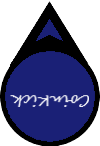
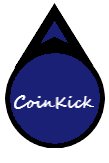
Forgot Password and UI Changes

diff --git a/lib/presentation/screens/profile_page.dart b/lib/presentation/screens/profile_page.dart
@@ -12,7 +12,7 @@ class ProfilePage extends StatelessWidget {
   Widget build(BuildContext context) {
     return Scaffold(
       appBar: AppBar(
-        title: const Text('Coinkick'),
+        title: const Text('CoinKick'),
         elevation: 0,
         flexibleSpace: Container(
           decoration: const BoxDecoration(
@@ -73,27 +73,35 @@ class ProfilePage extends StatelessWidget {
                   mainAxisAlignment: MainAxisAlignment.spaceEvenly,
                   children: [
                     SizedBox(
-                      child: IconButton(
-                        onPressed: () {
-                          Navigator.of(context).push(MaterialPageRoute(
-                              builder: (context) => UpdateData(
-                                    currentData: FirebaseAuth
-                                        .instance.currentUser!.displayName
-                                        .toString(),
-                                    typeOfData: 'Display Name',
-                                    funcOnSuccess: context
-                                        .read<AuthCubit>()
-                                        .updateDisplayName,
-                                  )));
-                        },
-                        icon: const Icon(Icons.assessment_outlined),
+                      child: Column(
+                        children: [
+                          IconButton(
+                            onPressed: () {
+                              Navigator.of(context).push(MaterialPageRoute(
+                                  builder: (context) => UpdateData(
+                                        currentData: FirebaseAuth
+                                            .instance.currentUser!.displayName
+                                            .toString(),
+                                        typeOfData: 'Display Name',
+                                        funcOnSuccess: context
+                                            .read<AuthCubit>()
+                                            .updateDisplayName,
+                                      )));
+                            },
+                            icon: const Icon(Icons.assessment_outlined),
+                          ),
+                          Text("Change Name"),
+                        ],
                       ),
                     ),
                     SizedBox(
-                      child: IconButton(
-                        onPressed: () {
-                          Navigator.of(context).push(MaterialPageRoute(
-                              builder: (context) => UpdateData(
+                      child: Column(
+                        children: [
+                          IconButton(
+                            onPressed: () {
+                              Navigator.of(context).push(
+                                MaterialPageRoute(
+                                  builder: (context) => UpdateData(
                                     currentData: FirebaseAuth
                                         .instance.currentUser!.displayName
                                         .toString(),
@@ -101,17 +109,27 @@ class ProfilePage extends StatelessWidget {
                                     funcOnSuccess: context
                                         .read<AuthCubit>()
                                         .updatePassword,
-                                  )));
-                        },
-                        icon: const Icon(Icons.password_outlined),
-                        tooltip: "Change Password",
+                                  ),
+                                ),
+                              );
+                            },
+                            icon: const Icon(Icons.password_outlined),
+                            tooltip: "Change Password",
+                          ),
+                          Text("Change Password"),
+                        ],
                       ),
                     ),
                     SizedBox(
-                      child: IconButton(
-                        onPressed: () {},
-                        icon: const Icon(Icons.delete_forever_outlined),
-                        tooltip: "Delete Account",
+                      child: Column(
+                        children: [
+                          IconButton(
+                            onPressed: () {},
+                            icon: const Icon(Icons.delete_forever_outlined),
+                            tooltip: "Delete Account",
+                          ),
+                          Text("Delete Account"),
+                        ],
                       ),
                     ),
                   ],
@@ -261,7 +279,7 @@ class ProfilePage extends StatelessWidget {
             label: "Cashout",
           ),
           BottomNavigationBarItem(
-            icon: Icon(Icons.dashboard),
+            icon: Icon(Icons.account_circle_outlined),
             backgroundColor: Colors.white70,
             label: "Profile",
           ),

diff --git a/lib/presentation/screens/signin_screen.dart b/lib/presentation/screens/signin_screen.dart
@@ -27,6 +27,18 @@ class _SignInScreenState extends State<SignInScreen> {
     }
   }
 
+  void _forgotPassword(context, String email) {
+    if (EmailValidator.validate(email) && email.isNotEmpty) {
+      BlocProvider.of<AuthCubit>(context).forgotPassword(email);
+      ScaffoldMessenger.of(context).showSnackBar(const SnackBar(
+          content: Text("Your password reset mail has been sent!")));
+      _emailController.text = "";
+    } else {
+      ScaffoldMessenger.of(context)
+          .showSnackBar(const SnackBar(content: Text("Enter a valid email!")));
+    }
+  }
+
   @override
   void dispose() {
     super.dispose();
@@ -41,30 +53,30 @@ class _SignInScreenState extends State<SignInScreen> {
 
   List<Image> cards = [
     Image.asset(
-      "assets/img_five.png",
+      "assets/sign_in_screen_1.png",
       width: 200,
       height: 200,
     ),
     Image.asset(
-      "assets/img_five.png",
+      "assets/sign_in_screen_2.png",
       width: 200,
       height: 200,
     ),
     Image.asset(
-      "assets/img_five.png",
+      "assets/sign_in_screen_3.png",
       width: 200,
       height: 200,
     ),
   ];
   List<String> textFirstLine = [
     "Only 5 questions a day, and receive loads of points",
-    "guyij",
-    "guyij",
+    "Play Games, Answer Questions, Have Fun",
+    "Fun is rewarding, Earn points",
   ];
   List<String> textSecondLine = [
     "Redeem them for real money",
-    "guyij",
-    "guyij",
+    "Have a good time",
+    "Redeem it for paypal or donate it to charity",
   ];
 
   Widget getCardWidget() {
@@ -73,6 +85,8 @@ class _SignInScreenState extends State<SignInScreen> {
         elevation: 20,
         shape: RoundedRectangleBorder(borderRadius: BorderRadius.circular(20)),
         child: Container(
+          width: MediaQuery.of(context).size.width * 0.88,
+          height: MediaQuery.of(context).size.height * 0.47,
           decoration: const BoxDecoration(
               gradient: LinearGradient(
                 colors: [
@@ -153,7 +167,7 @@ class _SignInScreenState extends State<SignInScreen> {
           ),
         ),
       ),
-      left: MediaQuery.of(context).size.width * 0.08,
+      left: MediaQuery.of(context).size.width * 0.05,
       top: MediaQuery.of(context).size.height * 0.3,
     );
   }
@@ -290,7 +304,10 @@ class _SignInScreenState extends State<SignInScreen> {
                                 ),
                                 Container(
                                   child: TextButton(
-                                    onPressed: () {},
+                                    onPressed: () {
+                                      _forgotPassword(
+                                          context, _emailController.text);
+                                    },
                                     child: const Text(
                                       "Forgot your password?",
                                       style: TextStyle(color: Colors.white60),

diff --git a/lib/presentation/screens/main_dashboard.dart b/lib/presentation/screens/main_dashboard.dart
@@ -164,7 +164,7 @@ class _DashboardState extends State<Dashboard> with IronSourceListener {
 
     return Scaffold(
       appBar: AppBar(
-        title: const Text('Coinkick'),
+        title: const Text('CoinKick'),
         elevation: 0,
         flexibleSpace: Container(
           decoration: const BoxDecoration(
@@ -209,7 +209,7 @@ class _DashboardState extends State<Dashboard> with IronSourceListener {
                 mainAxisAlignment: MainAxisAlignment.center,
                 children: [
                   Padding(
-                    padding: const EdgeInsets.fromLTRB(8, 8, 8, 8),
+                    padding: const EdgeInsets.fromLTRB(8, 0, 8, 0),
                     child: Align(
                       alignment: Alignment.centerLeft,
                       child: BlocBuilder<GetCoinsCubit, GetCoinsState>(
@@ -223,7 +223,7 @@ class _DashboardState extends State<Dashboard> with IronSourceListener {
                           );
                         } else if (state is CoinsFetched) {
                           return Padding(
-                            padding: EdgeInsets.only(top: 35.0, left: 20),
+                            padding: const EdgeInsets.only(top: 20.0, left: 20),
                             child: Text(
                               "${state.userCoins} Coins",
                               style: const TextStyle(
@@ -247,7 +247,7 @@ class _DashboardState extends State<Dashboard> with IronSourceListener {
                       color: Colors.white70,
                     ),
                   ),
-                  SizedBox(height: MediaQuery.of(context).size.width * .1),
+                  SizedBox(height: MediaQuery.of(context).size.width * .05),
                   Padding(
                     padding: EdgeInsets.only(left: 15, bottom: 10),
                     child: Align(

diff --git a/lib/presentation/screens/cashout_screen.dart b/lib/presentation/screens/cashout_screen.dart
@@ -78,7 +78,7 @@ class _CashoutScreenState extends State<CashoutScreen> {
   Widget build(BuildContext context) {
     return Scaffold(
       appBar: AppBar(
-        title: const Text('Coinkick'),
+        title: const Text('CoinKick'),
         elevation: 0,
         flexibleSpace: Container(
           decoration: const BoxDecoration(
@@ -446,7 +446,7 @@ class _CashoutScreenState extends State<CashoutScreen> {
             label: "Cashout",
           ),
           BottomNavigationBarItem(
-            icon: Icon(Icons.dashboard),
+            icon: Icon(Icons.account_circle_outlined),
             backgroundColor: Colors.white70,
             label: "Profile",
           ),

diff --git a/lib/presentation/screens/transaction_history_screen.dart b/lib/presentation/screens/transaction_history_screen.dart
@@ -47,7 +47,7 @@ class TransactionHistoryScreen extends StatelessWidget {
   Widget build(BuildContext context) {
     return Scaffold(
       appBar: AppBar(
-        title: const Text('Coinkick'),
+        title: const Text('CoinKick'),
         elevation: 0,
         flexibleSpace: Container(
           decoration: const BoxDecoration(
@@ -118,7 +118,7 @@ class TransactionHistoryScreen extends StatelessWidget {
             label: "Cashout",
           ),
           BottomNavigationBarItem(
-            icon: Icon(Icons.dashboard),
+            icon: Icon(Icons.account_circle_outlined),
             backgroundColor: Colors.white70,
             label: "Profile",
           ),

diff --git a/lib/presentation/screens/signup_screen.dart b/lib/presentation/screens/signup_screen.dart
@@ -67,7 +67,7 @@ class _SignUpScreenState extends State<SignUpScreen> {
                       children: [
                         const Icon(Icons.adb_rounded, size: 150),
                         const Text(
-                          'Coinkick',
+                          'CoinKick',
                           style: TextStyle(
                             fontSize: 40,
                           ),

diff --git a/lib/data/repositories/auth_repository.dart b/lib/data/repositories/auth_repository.dart
@@ -121,4 +121,12 @@ class AuthRepository {
         .set({DateTime.now().millisecondsSinceEpoch.toString(): purposeText},
             SetOptions(merge: true));
   }
+
+  Future<void> forgotPassword(String email) async {
+    try {
+      await FirebaseAuth.instance.sendPasswordResetEmail(email: email);
+    } catch (e) {
+      throw Exception(e);
+    }
+  }
 }

diff --git a/lib/logic/cubit/auth_cubit.dart b/lib/logic/cubit/auth_cubit.dart
@@ -68,4 +68,12 @@ class AuthCubit extends Cubit<AuthState> {
       throw Exception(e);
     }
   }
+
+  Future<void> forgotPassword(String email) async {
+    try {
+      await authRepository.forgotPassword(email);
+    } on Exception catch (e) {
+      throw Exception(e);
+    }
+  }
 }
